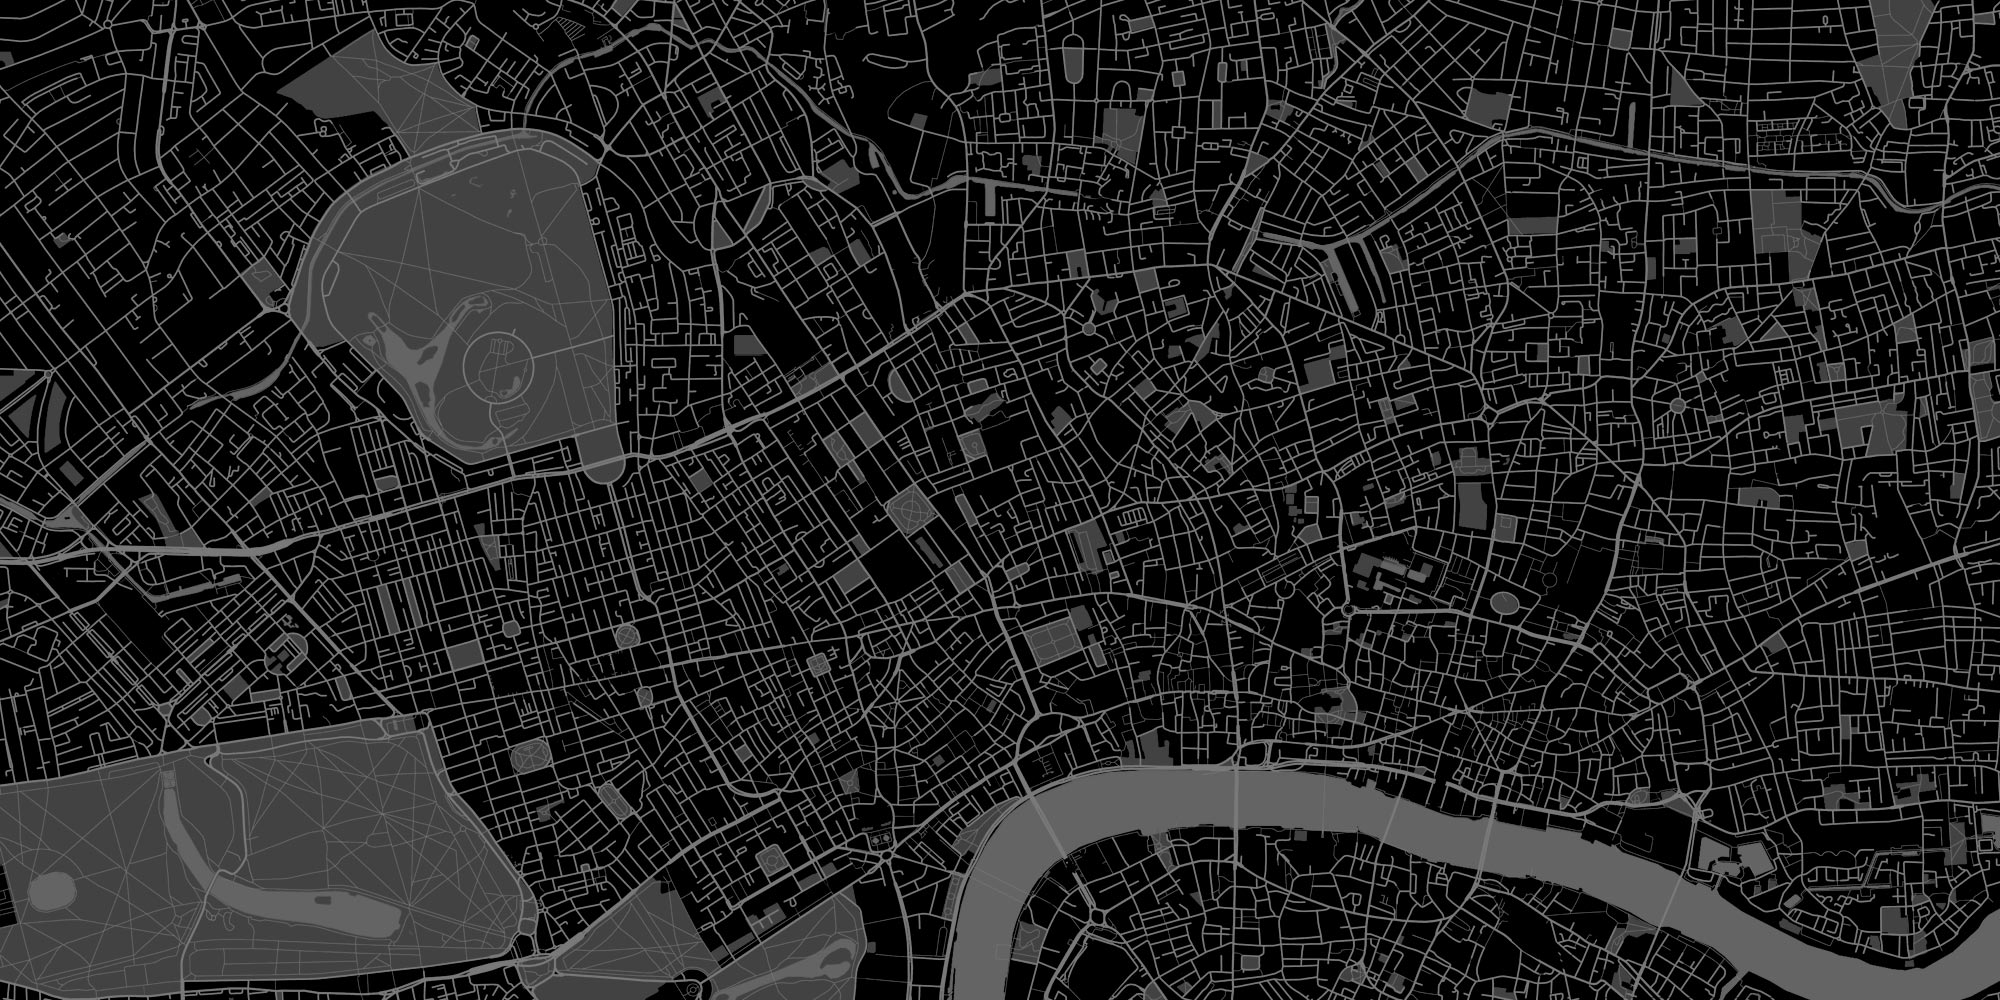
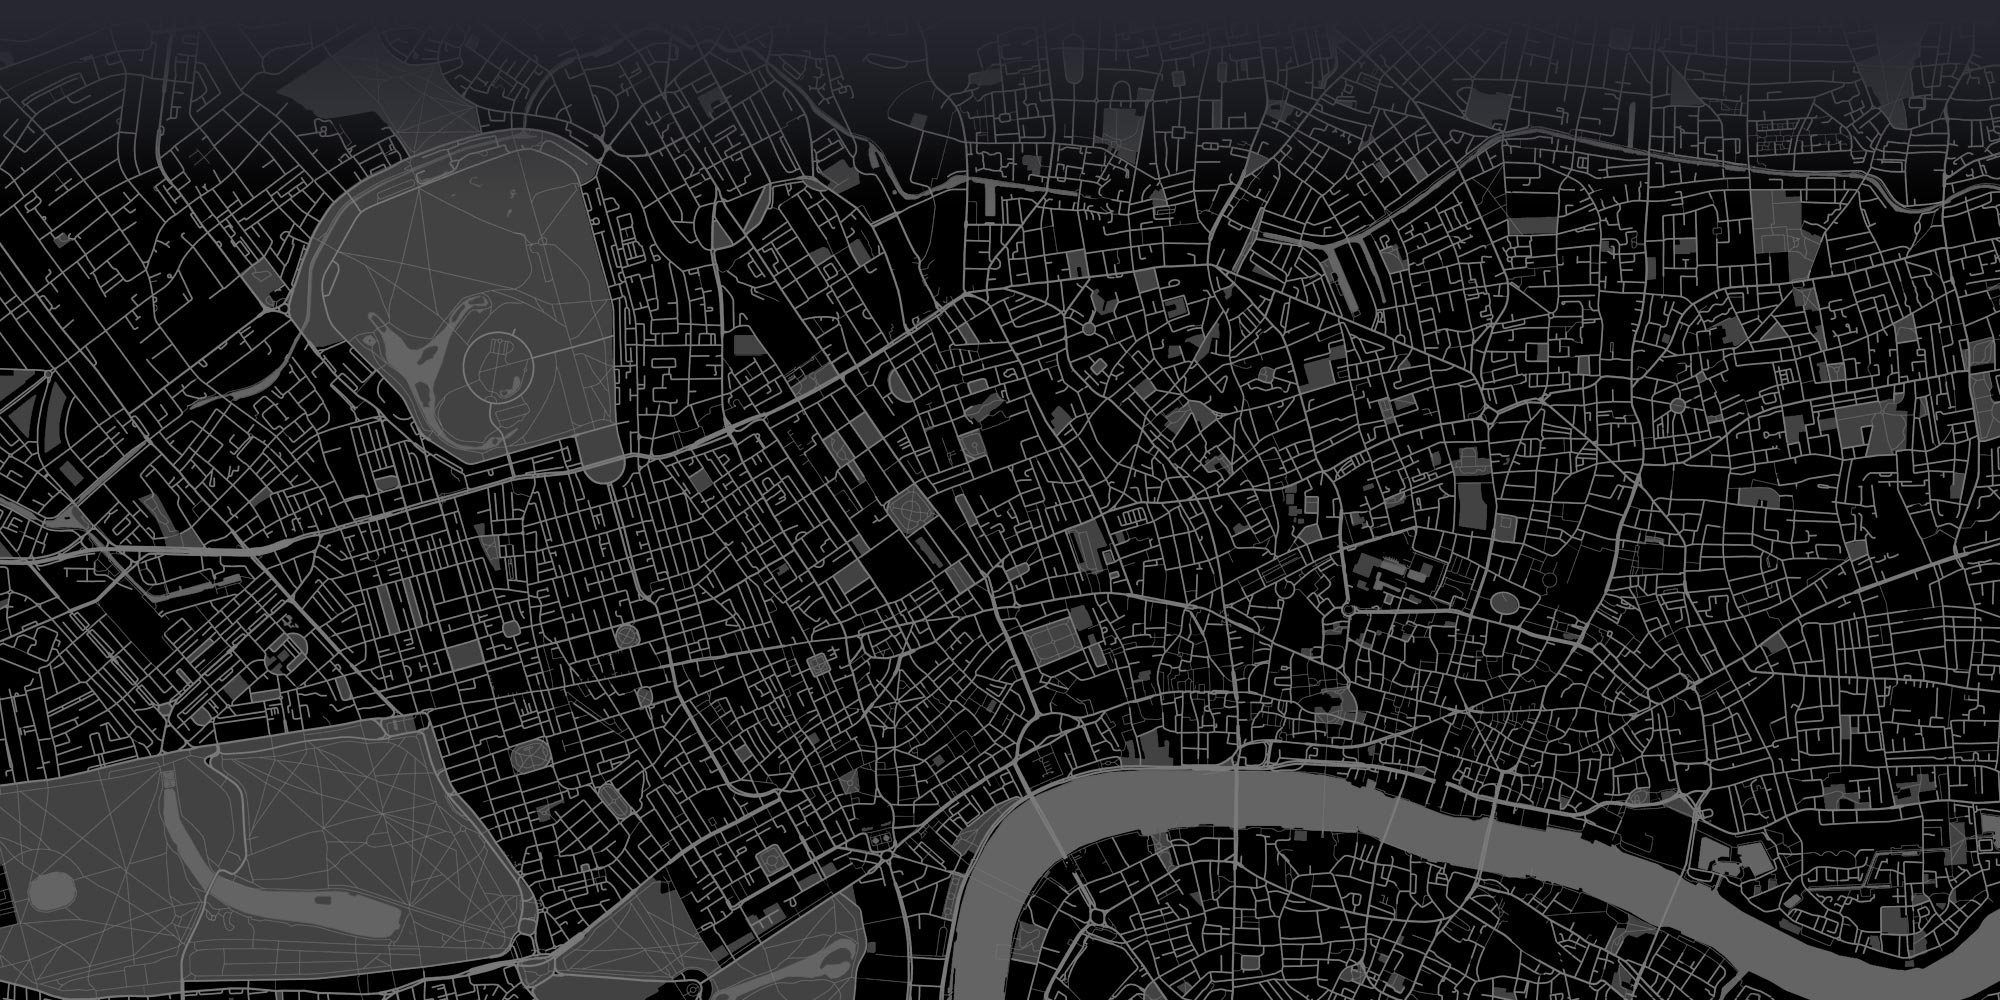
@ekynoxe - Fixing map title background.

Changed region(s): [[0.0, 0.0, 1.0, 0.155]]

diff --git a/src/sass/_map.scss b/src/sass/_map.scss
@@ -3,8 +3,10 @@
 }
 
 .map__container {
+    background-color: #262730;
     background-image: url('/build/img/mapBg.jpg');
     background-position: center top;
+    background-repeat: no-repeat;
     background-size: 1000px 500px;
     height: 400px;
     margin-bottom: 1rem;
